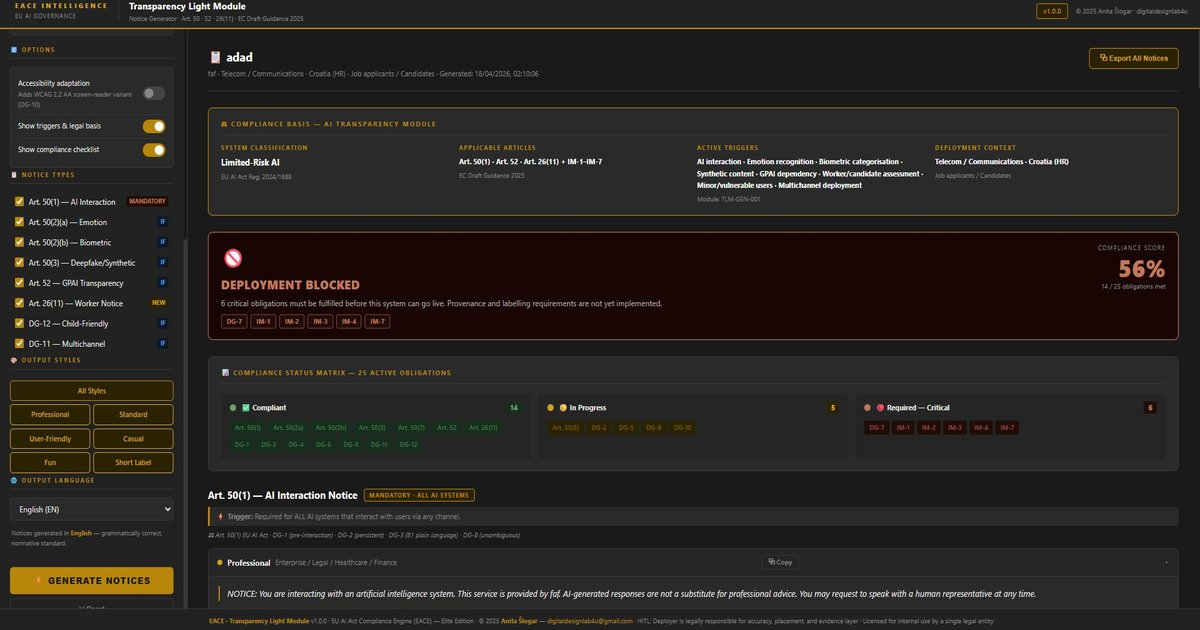
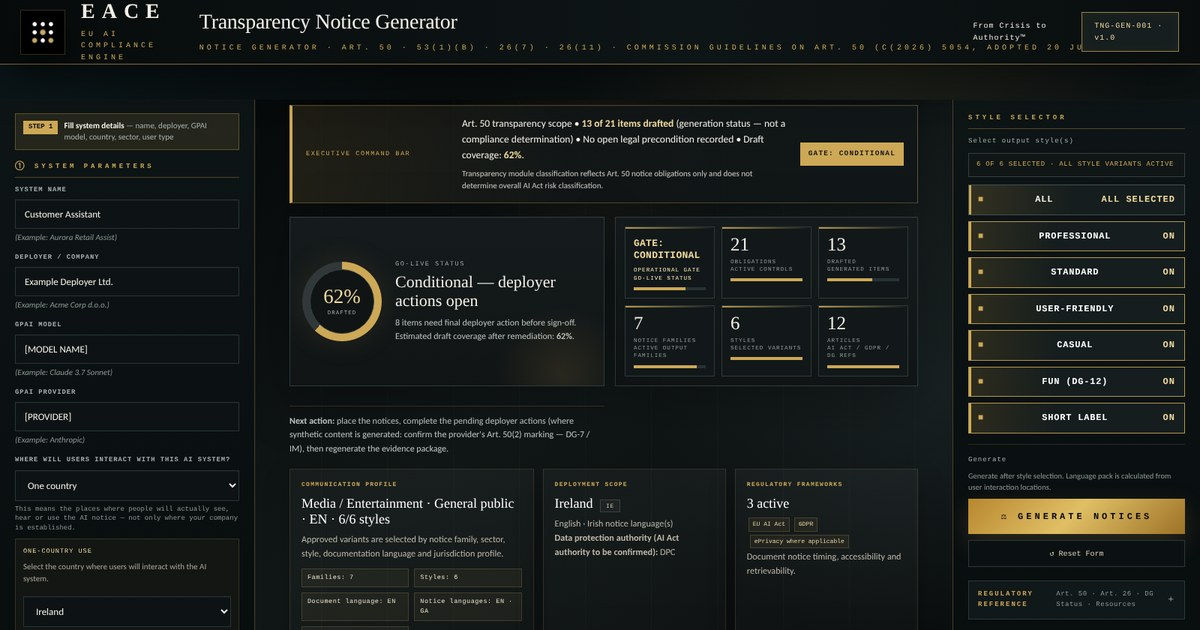
Align Transparency Notice Generator pages with release 1.0
- transparency.html: Art. 50 / 26(7) / 26(11) scope wording; remove
  "compliant", compliance-scoring and blocking claims; correct Art. 50(1),
  50(2)/(4), GPAI (optional, EACE policy), worker (high-risk only, dates)
  and child (EACE-DC-1) descriptions; statuses as in the application;
  26 report languages; channels as supported (chat instead of email);
  remove unmapped ISO/IEC 27001; Word-compatible .doc; documentation suite
  instead of DOCX template / TXT prompt edition; Guidelines C(2026) 5054.
- index.html: Transparency module card aligned with the same facts.
- dashboard_transparency.png, og_transparency.jpg: new screenshots from
  application release 1.0 (Art. 50 transparency scope, draft coverage).

Claude-Session: https://claude.ai/code/session_01XGQyDxynwybsr18bPnmtK7

diff --git a/transparency.html b/transparency.html
@@ -5,7 +5,7 @@
 <meta name="viewport" content="width=device-width, initial-scale=1.0">
 <title>EACE — Transparency Notice Generator | EU AI Act Art. 50</title>
   <meta property="og:title" content="EACE — Transparency Notice Generator | EU AI Act Art. 50">
-  <meta property="og:description" content="Generate EU AI Act compliant transparency notices (Art. 50, 26(11)) in 24 EU languages (26 incl. EEA). Seven deployment channels.">
+  <meta property="og:description" content="Generate EU AI Act transparency notices (Art. 50, 26(7), 26(11)) in 26 languages (24 EU + Icelandic, Norwegian), with the full report in the same 26 languages. Seven deployment channels.">
   <meta property="og:url" content="https://eace.ai/transparency">
   <meta property="og:image" content="https://eace.ai/og_transparency.jpg">
   <meta property="og:image:width" content="1200">
@@ -15,10 +15,10 @@
   <meta property="og:site_name" content="EACE — EU AI Compliance Engine">
   <meta name="twitter:card" content="summary_large_image">
   <meta name="twitter:title" content="EACE — Transparency Notice Generator | EU AI Act Art. 50">
-  <meta name="twitter:description" content="Generate EU AI Act compliant transparency notices (Art. 50, 26(11)) in 24 EU languages (26 incl. EEA). Seven deployment channels.">
+  <meta name="twitter:description" content="Generate EU AI Act transparency notices (Art. 50, 26(7), 26(11)) in 26 languages (24 EU + Icelandic, Norwegian), with the full report in the same 26 languages. Seven deployment channels.">
   <meta name="twitter:image" content="https://eace.ai/og_transparency.jpg">
-<meta name="description" content="Generate EU AI Act compliant transparency notices (Art. 50, 26(11)) in 24 EU languages (26 incl. EEA). Seven deployment channels. GDPR, ePrivacy.">
-<meta name="keywords" content="EU AI Act transparency notice, Article 50, Article 26(11), GPAI transparency, AI interaction notice, deepfake notice, worker transparency, EU AI compliance">
+<meta name="description" content="Generate EU AI Act transparency notices (Art. 50, 26(7), 26(11)) in 26 languages (24 EU + Icelandic, Norwegian), with the full report in the same 26 languages. Seven deployment channels. GDPR, ePrivacy.">
+<meta name="keywords" content="EU AI Act transparency notice, Article 50, Article 26(7), Article 26(11), GPAI transparency, AI interaction notice, deepfake notice, worker transparency, EU AI compliance">
 <meta name="robots" content="index, follow">
 <link rel="preconnect" href="https://fonts.googleapis.com">
 <link href="https://fonts.googleapis.com/css2?family=Playfair+Display:ital,wght@0,400;0,500;1,400&family=IBM+Plex+Mono:wght@400;500&family=IBM+Plex+Sans:wght@300;400;500&display=swap" rel="stylesheet">
@@ -146,7 +146,7 @@ footer{border-top:0.5px solid var(--line);padding:2.5rem 0 2rem}
     "@type": "SoftwareApplication",
     "name": "EACE Transparency Notice Generator",
     "url": "https://eace.ai/transparency",
-    "description": "Generate EU AI Act compliant transparency notices. Art. 50, 26(11).",
+    "description": "Generate EU AI Act transparency notices. Art. 50, 26(7), 26(11). Notices and report in 26 languages.",
     "applicationCategory": "BusinessApplication",
     "publisher": {"@type": "Organization", "name": "EACE", "url": "https://eace.ai"}
   }
@@ -188,15 +188,14 @@ footer{border-top:0.5px solid var(--line);padding:2.5rem 0 2rem}
 <section class="hero" aria-labelledby="hero-h1">
   <p class="eyebrow">02 · P3-Light · Standalone module</p>
   <h1 id="hero-h1">Transparency Notice<br><em>Generator.</em></h1>
-  <p class="hero-sub">EU AI Act Articles 50 & 26(11) — in minutes, not weeks.</p>
-  <p class="hero-desc">Generate transparency notices mapped to applicable EU AI Act requirements, for any deployment context. Runs entirely in your browser — no backend, no API keys, no data transmission of any kind. Audit-ready by design.</p>
+  <p class="hero-sub">EU AI Act Articles 50, 26(7) &amp; 26(11) — in minutes, not weeks.</p>
+  <p class="hero-desc">Generate transparency notices mapped to applicable EU AI Act requirements, for any deployment context — notices in the languages of your users' locations, the full report in your documentation language. Runs entirely in your browser — no backend, no API keys, no data transmission of any kind. Audit-ready by design.</p>
   <a href="/#contact" class="btn btn-primary" aria-label="Request access to the Transparency Notice Generator">Request access →</a>
   <div class="atags">
-    <span class="atag">EU AI Act Art. 50 · 26(11), as amended</span>
+    <span class="atag">EU AI Act Art. 50 · 26(7) · 26(11), as amended</span>
     <span class="atag">GDPR</span>
     <span class="atag">ePrivacy</span>
-    <span class="atag">ISO/IEC 27001</span>
-    <span class="atag">Article 50 Guidelines · Published 20 Jul 2026 · Obligations apply 2 Aug 2026</span>
+    <span class="atag">Commission Art. 50 Guidelines C(2026) 5054 · 20 Jul 2026 · Art. 50 applies from 2 Aug 2026</span>
     <span class="atag">C2PA · IPTC · XMP</span>
     <span class="atag">24 EU languages (26 incl. EEA)</span>
     <span class="atag">7 channels</span>
@@ -207,38 +206,37 @@ footer{border-top:0.5px solid var(--line);padding:2.5rem 0 2rem}
 <section class="sec">
   <p class="sec-label">Interface</p>
   <h2>Compliance basis. Deployment gate.<br><em>Instant output.</em></h2>
-  <p class="sec-intro">The HTML generator displays your system classification, applicable articles, active triggers, and deployment context — then scores your compliance obligations and blocks deployment if critical requirements are unmet.</p>
-  <div class="scr-wrap" aria-label="Transparency Light Module interface showing compliance status matrix and deployment gate">
-    <img src="dashboard_transparency.png" alt="Transparency Notice Generator dashboard — go-live readiness score and deployment gate">
+  <p class="sec-intro">The HTML generator shows the Art. 50 transparency scope, applicable articles, active triggers and deployment context — then tracks every obligation item, shows draft coverage and a go-live status, and records open legal preconditions before sign-off. The transparency module classification reflects Art. 50 notice obligations only and does not determine the overall AI Act risk classification.</p>
+  <div class="scr-wrap" aria-label="Transparency Notice Generator interface showing compliance status matrix and deployment gate">
+    <img src="dashboard_transparency.png" alt="Transparency Notice Generator dashboard — Art. 50 transparency scope, draft coverage and go-live status">
     <div class="scr-mask-left"></div>
     <div class="scr-mask-right"></div>
     <div class="scr-mask-bottom"></div>
   </div>
   <div class="features-grid">
-    <div class="feat"><p class="feat-label">Deployment gate</p><p class="feat-val">Blocked / Conditional / Ready</p><p class="feat-desc">System cannot go live until critical obligations are resolved</p></div>
-    <div class="feat"><p class="feat-label">Compliance scoring</p><p class="feat-val">Obligation-by-obligation</p><p class="feat-desc">Compliant · In progress · Required critical — colour-coded matrix</p></div>
+    <div class="feat"><p class="feat-label">Deployment gate</p><p class="feat-val">In preparation / Conditional / Ready for sign-off</p><p class="feat-desc">Open legal preconditions and deployer actions are shown before sign-off — including the Art. 5(1)(f) prohibition gate for emotion recognition at work or in education</p></div>
+    <div class="feat"><p class="feat-label">Obligation tracking</p><p class="feat-val">Obligation-by-obligation</p><p class="feat-desc">Generated · Pending · Informational · Not applicable — draft coverage, not a compliance score</p></div>
     <div class="feat"><p class="feat-label">Output styles</p><p class="feat-val">6 per notice type</p><p class="feat-desc">Professional · Standard · User-friendly · Casual · Fun · Short label</p></div>
-    <div class="feat"><p class="feat-label">Languages</p><p class="feat-val">24 EU languages (26 incl. EEA)</p><p class="feat-desc">Every official EU language, generated natively by the module. EEA coverage adds Icelandic and Norwegian.</p></div>
-    <div class="feat"><p class="feat-label">Channels</p><p class="feat-val">7 deployment channels</p><p class="feat-desc">Web · Mobile · Kiosk · SMS · IVR · Email · Push</p></div>
+    <div class="feat"><p class="feat-label">Languages</p><p class="feat-val">26 languages · notices and report</p><p class="feat-desc">All 24 official EU languages plus Icelandic and Norwegian. Notices follow your users' locations; the full report (dashboard, rationale, checklist, exports) follows your documentation language, using the official EU AI Act terminology of each language.</p></div>
+    <div class="feat"><p class="feat-label">Channels</p><p class="feat-val">7 deployment channels</p><p class="feat-desc">Web · Mobile app · Chat · Kiosk · SMS · IVR / voice · Push</p></div>
     <div class="feat"><p class="feat-label">Privacy</p><p class="feat-val">Local-first</p><p class="feat-desc">No backend, no API keys, no data transmitted — all processing in-browser</p></div>
   </div>
 </section>
 
 <section class="sec">
   <p class="sec-label">Notice types covered</p>
-  <h2>Every Art. 50<br><em>obligation. Covered.</em></h2>
+  <h2>Every Art. 50<br><em>notice type. Mapped.</em></h2>
   <div class="notices-grid">
-    <div class="notice-card"><p class="notice-art">Art. 50(1)</p><p class="notice-name">AI Interaction Notice</p><p class="notice-desc">Required for all AI systems that interact with users via any channel</p><span class="notice-tag tag-mandatory">MANDATORY — all AI systems</span></div>
-    <div class="notice-card"><p class="notice-art">Art. 50(3)</p><p class="notice-name">Emotion Recognition Notice</p><p class="notice-desc">Systems that infer or recognise emotions in natural persons</p><span class="notice-tag tag-conditional">IF triggered</span></div>
+    <div class="notice-card"><p class="notice-art">Art. 50(1)</p><p class="notice-name">AI Interaction Notice</p><p class="notice-desc">AI systems intended to interact directly with natural persons, unless this is obvious from the context of use</p><span class="notice-tag tag-conditional">IF direct interaction</span></div>
+    <div class="notice-card"><p class="notice-art">Art. 50(3)</p><p class="notice-name">Emotion Recognition Notice</p><p class="notice-desc">Systems that infer or recognise emotions in natural persons — prohibited at work and in education (Art. 5(1)(f)) unless for medical or safety reasons, and gated accordingly</p><span class="notice-tag tag-conditional">IF triggered</span></div>
     <div class="notice-card"><p class="notice-art">Art. 50(3)</p><p class="notice-name">Biometric Categorisation Notice</p><p class="notice-desc">Systems that categorise persons based on biometric data</p><span class="notice-tag tag-conditional">IF triggered</span></div>
-    <div class="notice-card"><p class="notice-art">Art. 50(2)</p><p class="notice-name">Deepfake & Synthetic Content</p><p class="notice-desc">Machine-readable marking for AI-generated or manipulated image, audio, video, or text output</p><span class="notice-tag tag-conditional">IF triggered</span></div>
-    <div class="notice-card"><p class="notice-art">Art. 50(4)</p><p class="notice-name">Public-Interest Content Notice</p><p class="notice-desc">Text published to inform the public on matters of public interest, unless human-edited under editorial responsibility</p><span class="notice-tag tag-conditional">IF triggered</span></div>
-    <div class="notice-card"><p class="notice-art">Art. 50(1)</p><p class="notice-name">GPAI Transparency Notice</p><p class="notice-desc">Systems with downstream GPAI model dependency — Art. 52 is the AI Office's systemic-risk designation procedure, not a user-notice basis</p><span class="notice-tag tag-conditional">IF triggered</span></div>
-    <div class="notice-card"><p class="notice-art">Art. 26(11)</p><p class="notice-name">Worker Transparency Notice</p><p class="notice-desc">AI systems used in employment and worker monitoring contexts</p><span class="notice-tag tag-conditional">NEW</span></div>
-    <div class="notice-card"><p class="notice-art">DG-12</p><p class="notice-name">Child-Friendly Notice</p><p class="notice-desc">Adapted notices for minors and vulnerable users</p><span class="notice-tag tag-conditional">IF triggered</span></div>
+    <div class="notice-card"><p class="notice-art">Art. 50(4) · 50(2)</p><p class="notice-name">Deepfake &amp; Synthetic Content Notice</p><p class="notice-desc">Deployer disclosure for deep fakes and for AI-generated text published on matters of public interest (Art. 50(4)); the provider's machine-readable marking (Art. 50(2)) is tracked in the deployer checklist (IM-1–IM-7)</p><span class="notice-tag tag-conditional">IF triggered</span></div>
+    <div class="notice-card"><p class="notice-art">EACE policy</p><p class="notice-name">GPAI Transparency Notice</p><p class="notice-desc">Optional notice naming the general-purpose AI model and its provider, sourced from Art. 53(1)(b) documentation, with a system-versus-model identity check — not required by Art. 50(1)</p><span class="notice-tag tag-conditional">OPTIONAL</span></div>
+    <div class="notice-card"><p class="notice-art">Art. 26(7) · 26(11)</p><p class="notice-name">Worker Transparency Notice</p><p class="notice-desc">High-risk AI systems (Annex III) used at the workplace or for decisions on persons — applies from 2 Dec 2027 (Annex III) / 2 Aug 2028 (Annex I)</p><span class="notice-tag tag-conditional">IF high-risk</span></div>
+    <div class="notice-card"><p class="notice-art">EACE-DC-1</p><p class="notice-name">Child-Friendly Notice</p><p class="notice-desc">EACE design control for minors and vulnerable users, informed by the Commission's Art. 50 Guidelines (DG-12)</p><span class="notice-tag tag-conditional">IF triggered</span></div>
     <div class="notice-card"><p class="notice-art">DG-11</p><p class="notice-name">Multichannel Deployment</p><p class="notice-desc">Channel-specific notice variants for all 7 deployment contexts</p><span class="notice-tag tag-conditional">IF triggered</span></div>
   </div>
-  <p style="font-size:13px;color:var(--faint);font-family:var(--mono);line-height:1.7">Also includes: C2PA/IPTC/XMP provenance metadata obligations · WCAG 2.2 AA accessibility variant · EC AI Office Guidance on Art. 50 (published 20 July 2026) integration</p>
+  <p style="font-size:13px;color:var(--faint);font-family:var(--mono);line-height:1.7">Also includes: C2PA/IPTC/XMP provenance options (implementation choices, not mandated methods) · WCAG 2.2 AA accessibility variant · Commission Guidelines on Art. 50 (C(2026) 5054, 20 July 2026) · every report and export states that the module does not determine the overall AI Act risk classification</p>
 </section>
 
 <section class="sec">
@@ -252,9 +250,9 @@ footer{border-top:0.5px solid var(--line);padding:2.5rem 0 2rem}
       <p class="file-desc">Formatted, ready-to-deploy HTML output — same appearance as the interactive generator. Hostable on any web server, intranet, or SharePoint.</p>
     </div>
     <div class="file-card">
-      <p class="file-type">DOCX</p>
+      <p class="file-type">DOC</p>
       <p class="file-name">Word .doc</p>
-      <p class="file-desc">Editable Word document for legal review, redlining, and sign-off before deployment.</p>
+      <p class="file-desc">Editable Word-compatible document for legal review, redlining, and sign-off before deployment.</p>
     </div>
     <div class="file-card">
       <p class="file-type">PDF</p>
@@ -270,7 +268,7 @@ footer{border-top:0.5px solid var(--line);padding:2.5rem 0 2rem}
   <div style="display:grid;grid-template-columns:1fr 1fr;gap:12px">
     <div style="background:var(--bg2);border:0.5px solid var(--line);border-radius:var(--r);padding:1.1rem">
       <p style="font-family:var(--mono);font-size:10px;letter-spacing:0.1em;text-transform:uppercase;color:var(--faint);margin-bottom:0.5rem">Also included</p>
-      <p style="font-size:13px;color:var(--muted);line-height:1.75">Implementation guide · Copyright & licensing policy · Sector & country overlay engine · Multichannel matrix</p>
+      <p style="font-size:13px;color:var(--muted);line-height:1.75">Documentation suite TNG-001–TNG-006 and TF-DD-001 (EN and HR editions): Executive, User, Administrator &amp; Technical, Regulatory &amp; Language and Licensing guides, Release Notes &amp; Document Register · Sector &amp; country overlay engine · Multichannel matrix</p>
     </div>
     <div style="background:var(--bg2);border:0.5px solid var(--line);border-radius:var(--r);padding:1.1rem">
       <p style="font-family:var(--mono);font-size:10px;letter-spacing:0.1em;text-transform:uppercase;color:var(--faint);margin-bottom:0.5rem">Hosting options</p>
@@ -284,15 +282,14 @@ footer{border-top:0.5px solid var(--line);padding:2.5rem 0 2rem}
   <h2>Regulatory &amp; technical basis.</h2>
   <p class="align-subhead">Regulatory basis</p>
   <div class="align-grid">
-    <span class="align-tag">EU AI Act Art. 50, 26(11), as amended by Reg. (EU) 2026/1744</span>
+    <span class="align-tag">EU AI Act Art. 50, 26(7), 26(11), as amended by Reg. (EU) 2026/1744</span>
     <span class="align-tag">GDPR — Reg. (EU) 2016/679</span>
     <span class="align-tag">ePrivacy Directive 2002/58/EC</span>
   </div>
   <p class="align-subhead">Standards &amp; implementation guidance</p>
   <div class="align-grid">
-    <span class="align-tag">ISO/IEC 27001 — Information Security</span>
     <span class="align-tag">WCAG 2.2 AA — Accessibility</span>
-    <span class="align-tag">European Commission / AI Office Article 50 Guidance · Published 20 Jul 2026 · Obligations apply 2 Aug 2026</span>
+    <span class="align-tag">European Commission Guidelines on Art. 50 (C(2026) 5054) · 20 Jul 2026 · Art. 50 applies from 2 Aug 2026</span>
   </div>
   <p class="align-subhead">Technical provenance &amp; metadata references</p>
   <div class="align-grid">
@@ -305,7 +302,7 @@ footer{border-top:0.5px solid var(--line);padding:2.5rem 0 2rem}
 <section class="sec">
   <p class="sec-label">Licensing</p>
   <h2>Two tiers.<br><em>One system.</em></h2>
-  <p class="sec-intro">Available under two licence tiers depending on use case. Both include the full module — HTML generator, DOCX template, TXT prompt edition, and all supporting documents.</p>
+  <p class="sec-intro">Available under two licence tiers depending on use case. Both include the full module — the HTML generator (web and mobile editions) with its built-in Styled HTML, Word, PDF and TXT exports, and the complete documentation suite.</p>
   <div class="license-grid">
     <div class="lic">
       <p class="lic-tier">Gold licence</p>

diff --git a/index.html b/index.html
@@ -992,20 +992,19 @@ button:focus-visible,a:focus-visible,[role="button"]:focus-visible{outline:2px s
         Transparency Notice Generator
       </h3>
       <div class="scr-wrap" aria-label="Transparency Notice Generator — compliance basis and deployment gate interface">
-        <img src="dashboard_transparency.png" alt="Transparency Notice Generator dashboard — go-live readiness score and deployment gate">
+        <img src="dashboard_transparency.png" alt="Transparency Notice Generator dashboard — Art. 50 transparency scope, draft coverage and go-live status">
         <div class="scr-mask-left"></div>
         <div class="scr-mask-right"></div>
         <div class="scr-mask-bottom"></div>
       </div>
-      <p>Generate EU AI Act-compliant transparency notices for any deployment context. Runs entirely in the browser — no backend, no API keys, no data transmission of any kind. 24 EU languages (26 incl. EEA) — every official EU language, generated natively. Seven deployment channels. Deployment gate with compliance scoring.</p>
+      <p>Generate EU AI Act transparency notices for any deployment context. Runs entirely in the browser — no backend, no API keys, no data transmission of any kind. Notices in 26 languages (24 EU + Icelandic, Norwegian), following your users' locations; the full report in the same 26 languages. Seven deployment channels. Deployment gate with obligation tracking and draft coverage — not a compliance score.</p>
       <div class="mod-files" style="margin-top:0.85rem">
-        <span class="mf">HTML generator</span>
-        <span class="mf">DOCX template</span>
-        <span class="mf">TXT prompt edition</span>
+        <span class="mf">HTML generator (web &amp; mobile)</span>
+        <span class="mf">Styled HTML · Word · PDF · TXT export</span>
         <span class="mf">Sector & country overlay engine</span>
-        <span class="mf">Implementation guide</span>
+        <span class="mf">Documentation suite TNG-001–006</span>
       </div>
-      <p class="mod-align">EU AI Act Art. 50, 26(11) · GDPR · ePrivacy · ISO/IEC 27001 · EC AI Office Guidance on Art. 50 (published 20 Jul 2026) · C2PA · IPTC · XMP</p>
+      <p class="mod-align">EU AI Act Art. 50, 26(7), 26(11) · GDPR · ePrivacy · Commission Guidelines on Art. 50 (C(2026) 5054, 20 Jul 2026) · C2PA · IPTC · XMP (implementation options)</p>
       <a href="/transparency" class="mod-cta" aria-label="Learn more about the Transparency Notice Generator">Learn more →</a>
     </div>
     <div class="mod">
